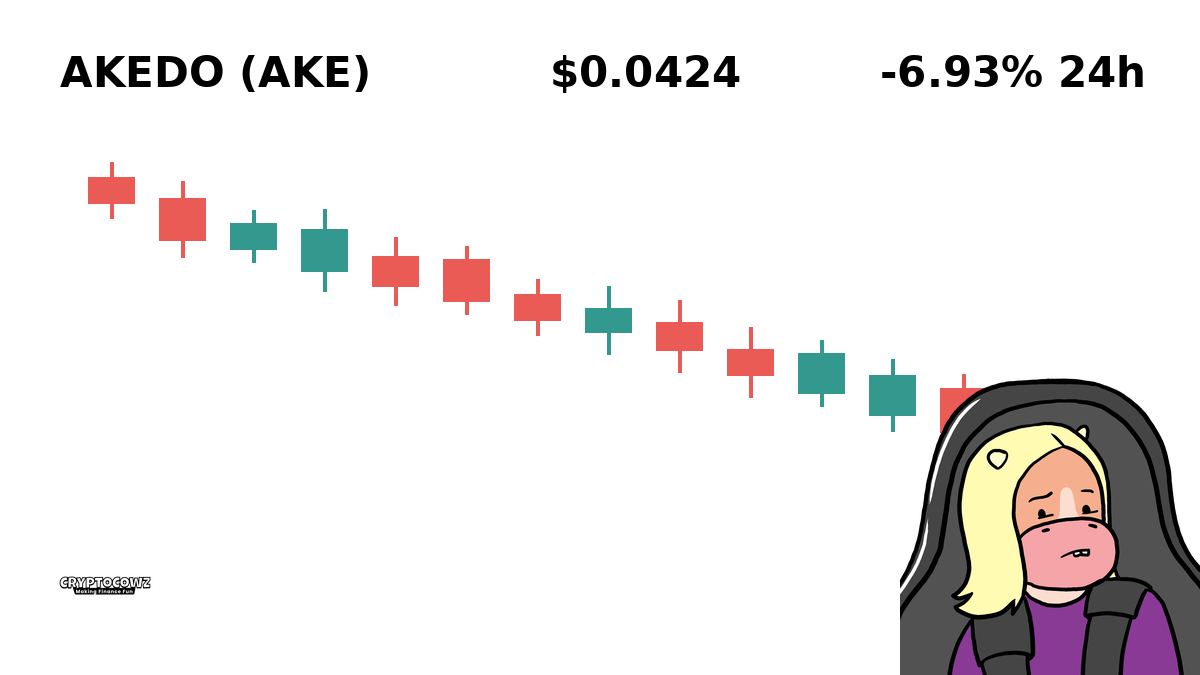
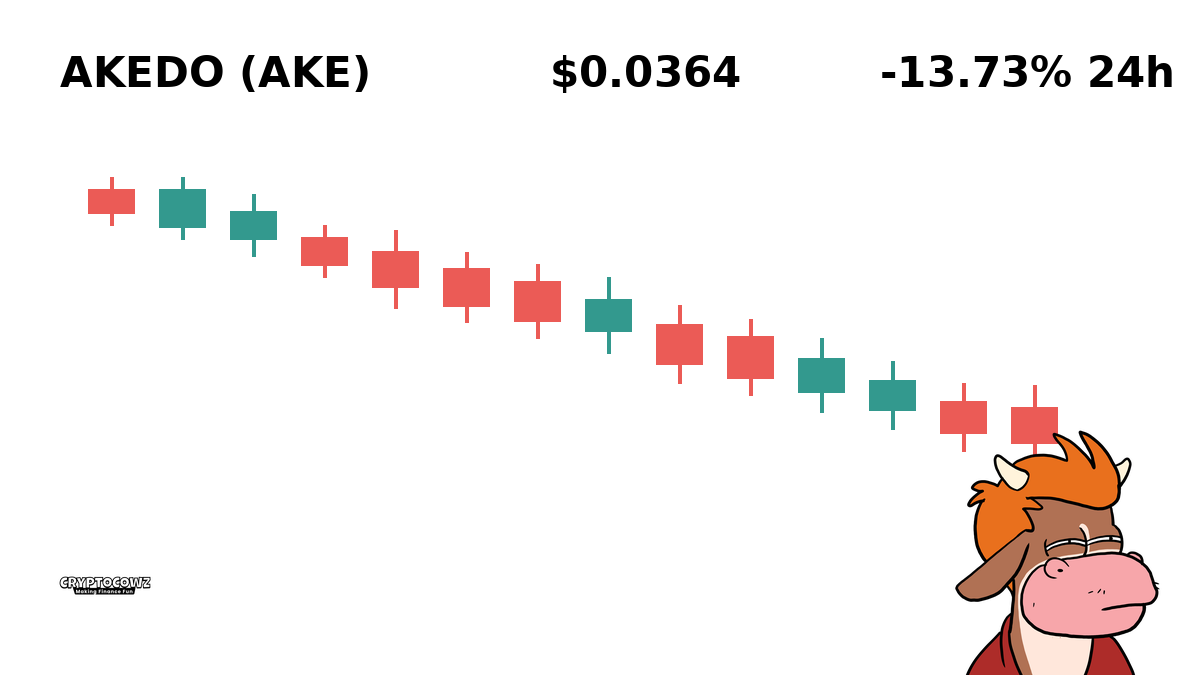
Auto-generate daily 10 CMC graphics & cleanup old images [skip ci]

diff --git a/output/cmc_prompts_latest.md b/output/cmc_prompts_latest.md
@@ -1,80 +1,80 @@
 # Daily Top Movers: CMC Community Visuals & Posts
 
-## 1. Ondo ($ONDO) — +25.43% (PUMP)
+## 1. Ethena ($ENA) — +19.23% (PUMP)
 **Cast Member:** Skip Zinfandel
-**CMC Comment:** Just refinanced the farm to ape into ONDO because institutional yield sounds like something my accountant wouldn't yell at me for. Up 25% today and I'm already shopping for luxury tractor accessories!
+**CMC Comment:** Just refinanced my barn to ape into synthetic yield because line only goes up. Generational wealth is officially secured, boys!
 
-![ONDO Graphic](images/01_PUMP_ONDO.png)
+![ENA Graphic](images/01_PUMP_ENA.png)
 
 ---
 
-## 2. Litecoin ($LTC) — +23.67% (PUMP)
+## 2. Aerodrome Finance ($AERO) — +18.62% (PUMP)
 **Cast Member:** Frank Rizzo
-**CMC Comment:** Litecoin rising from the dead like my ex-wife's lawyer requesting another audit! Digital silver is pumping, so I'm cashing out before the grandkids realize I spent their inheritance.
+**CMC Comment:** I don't know what an aerodrome is, but I'm throwing my mother-in-law's pension into it immediately. Keep flying, baby!
 
-![LTC Graphic](images/02_PUMP_LTC.png)
+![AERO Graphic](images/02_PUMP_AERO.png)
 
 ---
 
-## 3. Quant ($QNT) — +18.08% (PUMP)
+## 3. Quant ($QNT) — +16.58% (PUMP)
 **Cast Member:** Professor Hartmut
-**CMC Comment:** Interoperability theory dictates that an 18% surge is statistically indicative of speculative mania overriding rational valuations. Naturally, I am now double-leveraged.
+**CMC Comment:** Interoperability theory dictates that a sixteen percent pump completely validates my three-hundred page whitepaper on farmyard liquidity.
 
 ![QNT Graphic](images/03_PUMP_QNT.png)
 
 ---
 
-## 4. Ethereum Classic ($ETC) — +13.73% (PUMP)
+## 4. Bitway ($BTW) — +15.99% (PUMP)
 **Cast Member:** Sunshine Innocent Nimbus
-**CMC Comment:** Code is law, sweet babies, and the universe says we are going to the moon on vintage Ethereum! Sending positive aura energy to everyone who held this since 2016!
+**CMC Comment:** The cosmos is sending golden vibrations straight into our digital wallets today! Hug your local validator!
 
-![ETC Graphic](images/04_PUMP_ETC.png)
+![BTW Graphic](images/04_PUMP_BTW.png)
 
 ---
 
-## 5. Injective ($INJ) — +12.13% (PUMP)
+## 5. Canton ($CC) — +10.45% (PUMP)
 **Cast Member:** Skip Zinfandel
-**CMC Comment:** Injective is injecting pure adrenaline directly into my liquidity pool! Who needs risk management when green candles look this gorgeous on a chart?
+**CMC Comment:** Selling my wife's prized heifers to double down on Canton before the normies wake up. To the moon!
 
-![INJ Graphic](images/05_PUMP_INJ.png)
+![CC Graphic](images/05_PUMP_CC.png)
 
 ---
 
-## 6. Pi Network ($PI) — -1.63% (DUMP)
+## 6. Injective ($INJ) — -5.15% (DUMP)
 **Cast Member:** Frank Rizzo
-**CMC Comment:** You spent three years tapping a button on your phone every morning for a coin dumping today? My guy, even my local bodega runs a better loyalty program.
+**CMC Comment:** Down five percent? Great, now I gotta explain to the family why we are eating expired hay for dinner again.
 
-![PI Graphic](images/06_DUMP_PI.png)
+![INJ Graphic](images/06_DUMP_INJ.png)
 
 ---
 
-## 7. Rain ($RAIN) — -2.83% (DUMP)
+## 7. MemeCore ($M) — -5.16% (DUMP)
 **Cast Member:** Sunshine Innocent Nimbus
-**CMC Comment:** Oh no, RAIN is falling and it washed away our yield farm profits! Don't worry sweet soul, every storm clears eventually even if your portfolio is a puddle.
+**CMC Comment:** My aura is feeling heavily damaged by this red candle, but perhaps the red is just market love in disguise?
 
-![RAIN Graphic](images/07_DUMP_RAIN.png)
+![M Graphic](images/07_DUMP_M.png)
 
 ---
 
-## 8. Pump.fun ($PUMP) — -2.96% (DUMP)
+## 8. Litecoin ($LTC) — -5.86% (DUMP)
+**Cast Member:** Skip Zinfandel
+**CMC Comment:** Digital silver is behaving like digital lead again. Guess I'll just hold these vintage 2017 bags until retirement.
+
+![LTC Graphic](images/08_DUMP_LTC.png)
+
+---
+
+## 9. Lighter ($LIT) — -10.2% (DUMP)
 **Cast Member:** Professor Hartmut
-**CMC Comment:** The irony of a token explicitly named PUMP experiencing a downward trajectory is a fascinating study in market psychology. Participants remain thoroughly disappointed.
+**CMC Comment:** A ten percent devaluation clearly demonstrates the psychological fragility of retail investors facing structural entropy.
 
-![PUMP Graphic](images/08_DUMP_PUMP.png)
+![LIT Graphic](images/09_DUMP_LIT.png)
 
 ---
 
-## 9. Bitcoin Cash ($BCH) — -3.47% (DUMP)
+## 10. Akedo ($AKE) — -13.73% (DUMP)
 **Cast Member:** Frank Rizzo
-**CMC Comment:** Bitcoin Cash dropping again? I told Tony down at the docks that Satoshi's real vision wasn't bagholding through a red Wednesday!
-
-![BCH Graphic](images/09_DUMP_BCH.png)
-
----
-
-## 10. Akedo ($AKE) — -6.93% (DUMP)
-**Cast Member:** Skip Zinfandel
-**CMC Comment:** Down nearly 7% in a single day? Looks like my high-conviction Akedo play just instantly pivoted into a long-term tax-loss harvesting strategy!
+**CMC Comment:** Somebody call the sheriff because my portfolio just got utterly mugged in broad daylight!
 
 ![AKE Graphic](images/10_DUMP_AKE.png)
 
